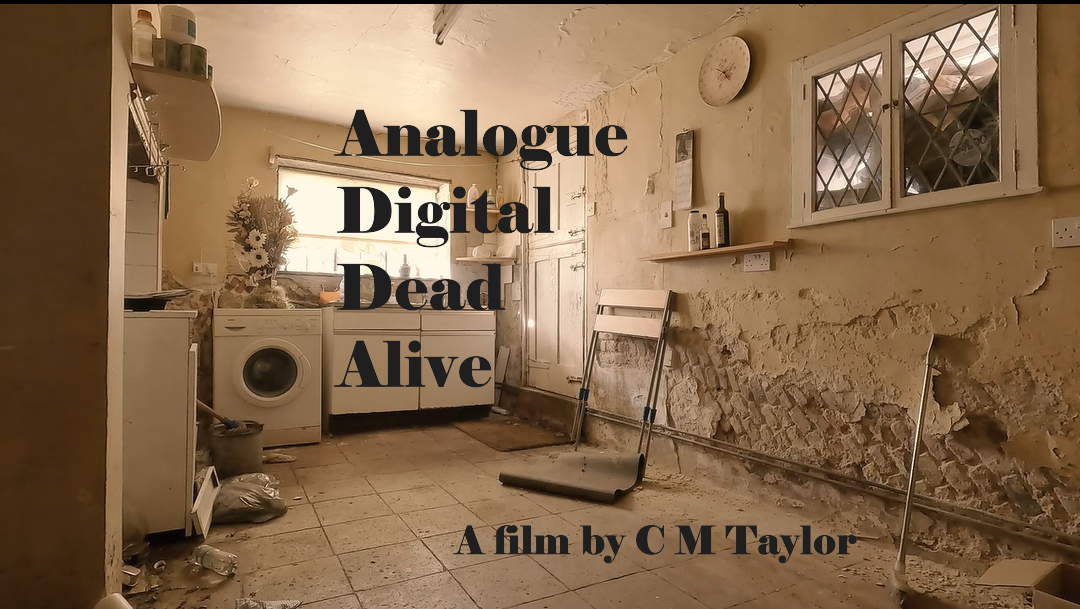
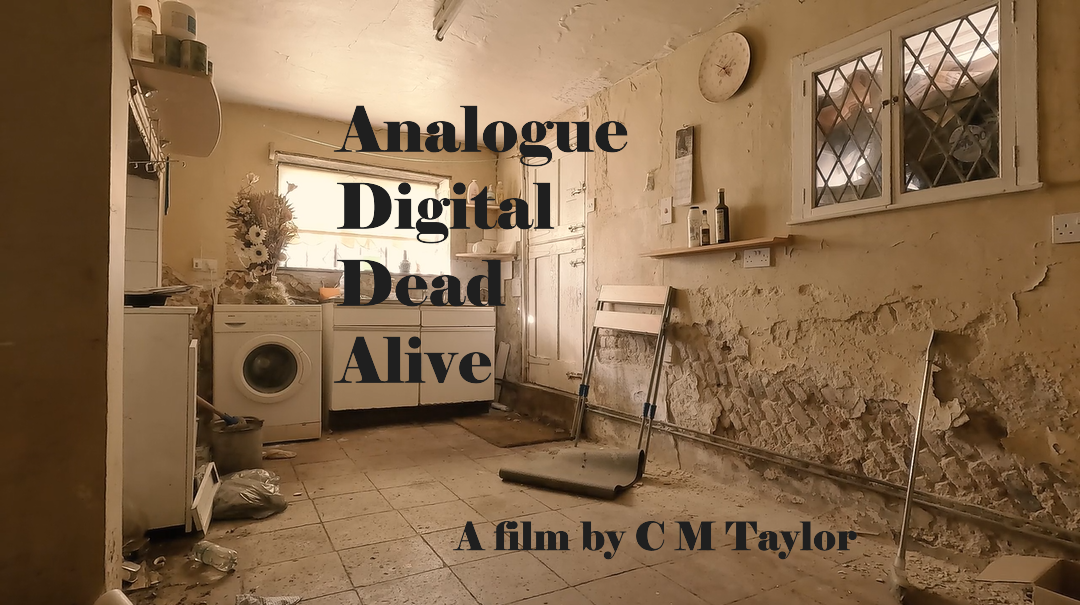
Craig round 2 – films: relayout, Nalbandia added, Morning Run retitled
Layout, per Craig's steer: films now stack chronologically newest-first, all
flush left, with much bigger posters (960px) and generous space between, so
the page reads as a filmography rather than a grid. Each film carries year
and runtime.

Content:
- Heading is 'Slow and Spurious Films' (not 'A Slow and Spurious Film'), which
  makes the old footer line redundant – removed. Series kicker and meta
  descriptions updated to match across every film page.
- Intro copy: 'Craig was moved…' (drops the third person and the mid-50s
  aside), and nine international festivals, not eight.
- The Flags of Nalbandia added (2026, 10 mins) – poster, logline and page from
  Craig's Film Texts doc. Festival-exclusive, so poster-only like Le Jazz; the
  Vimeo embed is on file for when the run ends, and Craig still owes us the
  longer description.
- The Morning Run retitled The Other Side of Boredom (2024, 13 mins), page
  renamed with it. Craig's own Vimeo title is 'The Morning Run or The Other
  Side of Boredom', so this is a retitle rather than a different film. Still a
  text card until his new poster lands.

Fixes found along the way:
- Every film detail page had dead href='#' nav links for Books/Essays/About/
  Contact. Now wired up.
- Cropped the black strip off the top of the ADDA, Library and Nalbandia
  posters and the bottom of Le Jazz (Craig spotted the first two).
- Sitemap updated for the new and renamed film pages.

diff --git a/films.html b/films.html
@@ -3,19 +3,19 @@
 <head>
 <meta charset="utf-8">
 <meta name="viewport" content="width=device-width, initial-scale=1">
-<meta name="description" content="The films of C. M. Taylor, made under the name A Slow and Spurious Film – award-winning, zero-budget experimental short films.">
+<meta name="description" content="The films of C. M. Taylor, made under the name Slow and Spurious Films – award-winning, zero-budget experimental short films.">
 <link rel="canonical" href="https://cmtaylorstory.com/films.html">
 <meta property="og:type" content="website">
 <meta property="og:site_name" content="C. M. Taylor">
 <meta property="og:locale" content="en_GB">
 <meta property="og:title" content="Films – C. M. Taylor">
-<meta property="og:description" content="The films of C. M. Taylor, made under the name A Slow and Spurious Film – award-winning, zero-budget experimental short films.">
+<meta property="og:description" content="The films of C. M. Taylor, made under the name Slow and Spurious Films – award-winning, zero-budget experimental short films.">
 <meta property="og:url" content="https://cmtaylorstory.com/films.html">
 <meta property="og:image" content="https://cmtaylorstory.com/assets/Film%20Static%20assets/The%20Library%20of%20Unwritten%20Books%20Poster.png">
 <meta name="twitter:card" content="summary_large_image">
 <meta name="twitter:site" content="@CMtaylorstory">
 <meta name="twitter:title" content="Films – C. M. Taylor">
-<meta name="twitter:description" content="The films of C. M. Taylor, made under the name A Slow and Spurious Film – award-winning, zero-budget experimental short films.">
+<meta name="twitter:description" content="The films of C. M. Taylor, made under the name Slow and Spurious Films – award-winning, zero-budget experimental short films.">
 <meta name="twitter:image" content="https://cmtaylorstory.com/assets/Film%20Static%20assets/The%20Library%20of%20Unwritten%20Books%20Poster.png">
 <link rel="icon" href="/favicon.svg" type="image/svg+xml">
 <title>Films – C. M. Taylor</title>
@@ -82,17 +82,21 @@
     font-family: "Inter", sans-serif;
     font-size: 0.72rem; letter-spacing: 0.2em; text-transform: uppercase;
     color: rgba(26,24,20,0.5); margin-top: 2.2em;
+    max-width: none; /* tracked caps need more room than the 34em body measure */
   }
 
+  /* Films stack chronologically, newest first, every one flush left – Craig's
+     steer. One big poster per film with its text underneath, and generous air
+     between them, so the page reads as a filmography rather than a grid. */
   .films {
-    display: grid;
-    grid-template-columns: repeat(auto-fit, minmax(min(440px, 100%), 1fr));
-    gap: clamp(20px, 3vw, 48px);
+    display: flex;
+    flex-direction: column;
+    gap: clamp(64px, 11vh, 132px);
     padding: 0 clamp(24px, 5vw, 72px) clamp(60px, 10vh, 120px);
   }
   .film {
     text-decoration: none; display: block;
-    position: relative;
+    width: 100%; max-width: 960px;
   }
   .film .posterwrap {
     aspect-ratio: 16 / 9;
@@ -108,15 +112,22 @@
   .film h2 {
     font-family: var(--fd);
     font-style: italic; font-weight: 500;
-    font-size: 1.5rem; margin-top: 0.7em;
+    font-size: clamp(1.6rem, 3vw, 2.3rem);
+    margin-top: 0.6em; line-height: 1.15;
+  }
+  .film .meta {
+    font-size: 0.68rem; letter-spacing: 0.2em; text-transform: uppercase;
+    color: rgba(26,24,20,0.45); margin-top: 0.9em;
   }
   .film .logline {
-    font-size: 0.85rem; color: rgba(26,24,20,0.6);
-    margin-top: 0.35em; line-height: 1.45;
+    font-family: var(--fd);
+    font-size: clamp(1rem, 1.6vw, 1.2rem);
+    color: rgba(26,24,20,0.72);
+    margin-top: 0.5em; line-height: 1.5; max-width: 30em;
   }
   .film .badge {
     font-size: 0.65rem; letter-spacing: 0.18em; text-transform: uppercase;
-    color: rgba(26,24,20,0.45); margin-top: 0.6em;
+    color: rgba(26,24,20,0.45); margin-top: 1em;
   }
   /* text-led card for the poster-less film */
   .film.textcard .posterwrap {
@@ -126,7 +137,7 @@
   }
   .film.textcard .posterwrap span {
     font-family: var(--fd);
-    font-style: italic; font-size: 1.9rem; text-align: center;
+    font-style: italic; font-size: clamp(1.5rem, 3vw, 2.4rem); text-align: center;
     padding: 0 1.2em; line-height: 1.3; color: rgba(26,24,20,0.85);
   }
 
@@ -166,19 +177,36 @@
 </div>
 
 <header class="intro">
-  <h1>A Slow and Spurious Film</h1>
-  <p>Fatigued by our hyperactive visual culture, C&nbsp;M&nbsp;Taylor was moved
-  – in his mid&#8209;50s – to start making laconic, zero-budget experimental
-  films, guided by the slogan <span class="slogan">&lsquo;the slow and the
-  spurious, not the fast and the furious&rsquo;</span>.</p>
-  <p class="laurelline">Winner – Best Experimental Film at eight international festivals</p>
+  <h1>Slow and Spurious Films</h1>
+  <p>Fatigued by our hyperactive visual culture, Craig was moved to start making
+  laconic, zero-budget experimental films, guided by the slogan
+  <span class="slogan">&lsquo;the slow and the spurious, not the fast and the
+  furious&rsquo;</span>.</p>
+  <p class="laurelline">Winner – Best Experimental Film at nine international festivals</p>
 </header>
 
 <main class="films">
 
+  <a class="film" href="films/the-flags-of-nalbandia.html">
+    <div class="posterwrap"><img decoding="async" src="assets/Film%20Static%20assets/Nalbandia%20Poster.png" alt="The Flags of Nalbandia poster"></div>
+    <h2>The Flags of Nalbandia</h2>
+    <p class="meta">2026 &nbsp;·&nbsp; 10 mins</p>
+    <p class="logline">Even imaginary countries deserve their own flags.</p>
+    <p class="badge">On the festival circuit</p>
+  </a>
+
+  <a class="film" href="films/le-jazz.html">
+    <div class="posterwrap"><img loading="lazy" decoding="async" src="assets/Film%20Static%20assets/Le%20Jazz%20Poster.png" alt="Le Jazz poster"></div>
+    <h2>Le Jazz</h2>
+    <p class="meta">2026 &nbsp;·&nbsp; 7 mins</p>
+    <p class="logline">Can you make good art from bad?</p>
+    <p class="badge">On the festival circuit</p>
+  </a>
+
   <a class="film" href="films/analogue-digital-dead-alive.html">
-    <div class="posterwrap"><img decoding="async" src="assets/Film%20Static%20assets/ADDA%20Poster.png" alt="Analogue Digital Dead Alive poster"></div>
+    <div class="posterwrap"><img loading="lazy" decoding="async" src="assets/Film%20Static%20assets/ADDA%20Poster.png" alt="Analogue Digital Dead Alive poster"></div>
     <h2>Analogue Digital Dead Alive</h2>
+    <p class="meta">2025 &nbsp;·&nbsp; 13 mins</p>
     <p class="logline">A philosophical ghost tells the living a few home truths.</p>
     <p class="badge">Watch the film</p>
   </a>
@@ -186,27 +214,20 @@
   <a class="film" href="films/the-library-of-unwritten-books.html">
     <div class="posterwrap"><img loading="lazy" decoding="async" src="assets/Film%20Static%20assets/The%20Library%20of%20Unwritten%20Books%20Poster.png" alt="The Library of Unwritten Books poster"></div>
     <h2>The Library of Unwritten Books</h2>
+    <p class="meta">2025 &nbsp;·&nbsp; 13 mins</p>
     <p class="logline">A writer discovers a library in his home, stocked with all the books he never managed to write.</p>
     <p class="badge">Watch the film</p>
   </a>
 
-  <a class="film" href="films/le-jazz.html">
-    <div class="posterwrap"><img loading="lazy" decoding="async" src="assets/Film%20Static%20assets/Le%20Jazz%20Poster.png" alt="Le Jazz poster"></div>
-    <h2>Le Jazz</h2>
-    <p class="logline">Can you make good art from bad?</p>
-    <p class="badge">On the festival circuit</p>
-  </a>
-
-  <a class="film textcard" href="films/the-morning-run.html">
+  <a class="film textcard" href="films/the-other-side-of-boredom.html">
     <div class="posterwrap"><span>There is a world of rapture on the other side of boredom</span></div>
-    <h2>The Morning Run</h2>
+    <h2>The Other Side of Boredom</h2>
+    <p class="meta">2024 &nbsp;·&nbsp; 13 mins</p>
     <p class="logline">A single-shot film documenting an unremarkable morning jog becomes a history of our species.</p>
     <p class="badge">Watch the film</p>
   </a>
 
 </main>
-
-<footer>Films run under the name A Slow and Spurious Film</footer>
 
 <script src="fold-child.js?v=20260727a"></script>
 <footer class="artfoot" style="background-image:url('assets/art/flag-3.jpg')" aria-label="Colour-field painting by C. M. Taylor"></footer>

diff --git a/films/the-flags-of-nalbandia.html b/films/the-flags-of-nalbandia.html
@@ -3,22 +3,22 @@
 <head>
 <meta charset="utf-8">
 <meta name="viewport" content="width=device-width, initial-scale=1">
-<meta name="description" content="The Morning Run – a short film by C. M. Taylor. There is a world of rapture on the other side of boredom.">
-<link rel="canonical" href="https://cmtaylorstory.com/films/the-morning-run.html">
+<meta name="description" content="The Flags of Nalbandia – a short film by C. M. Taylor (Slow and Spurious Films). Even imaginary countries deserve their own flags.">
+<link rel="canonical" href="https://cmtaylorstory.com/films/the-flags-of-nalbandia.html">
 <meta property="og:type" content="video.other">
 <meta property="og:site_name" content="C. M. Taylor">
 <meta property="og:locale" content="en_GB">
-<meta property="og:title" content="The Morning Run – C. M. Taylor">
-<meta property="og:description" content="The Morning Run – a short film by C. M. Taylor. There is a world of rapture on the other side of boredom.">
-<meta property="og:url" content="https://cmtaylorstory.com/films/the-morning-run.html">
-<meta property="og:image" content="https://cmtaylorstory.com/assets/art/flag-2.jpg">
+<meta property="og:title" content="The Flags of Nalbandia – C. M. Taylor">
+<meta property="og:description" content="The Flags of Nalbandia – a short film by C. M. Taylor (Slow and Spurious Films). Even imaginary countries deserve their own flags.">
+<meta property="og:url" content="https://cmtaylorstory.com/films/the-flags-of-nalbandia.html">
+<meta property="og:image" content="https://cmtaylorstory.com/assets/Film%20Static%20assets/Nalbandia%20Poster.png">
 <meta name="twitter:card" content="summary_large_image">
 <meta name="twitter:site" content="@CMtaylorstory">
-<meta name="twitter:title" content="The Morning Run – C. M. Taylor">
-<meta name="twitter:description" content="The Morning Run – a short film by C. M. Taylor. There is a world of rapture on the other side of boredom.">
-<meta name="twitter:image" content="https://cmtaylorstory.com/assets/art/flag-2.jpg">
+<meta name="twitter:title" content="The Flags of Nalbandia – C. M. Taylor">
+<meta name="twitter:description" content="The Flags of Nalbandia – a short film by C. M. Taylor (Slow and Spurious Films). Even imaginary countries deserve their own flags.">
+<meta name="twitter:image" content="https://cmtaylorstory.com/assets/Film%20Static%20assets/Nalbandia%20Poster.png">
 <link rel="icon" href="/favicon.svg" type="image/svg+xml">
-<title>The Morning Run – C. M. Taylor</title>
+<title>The Flags of Nalbandia – C. M. Taylor</title>
 <link rel="preconnect" href="https://fonts.googleapis.com">
 <link rel="preconnect" href="https://fonts.gstatic.com" crossorigin>
 <link href="https://fonts.googleapis.com/css2?family=EB+Garamond:ital,wght@0,400;0,500;0,600;1,400;1,500&family=Inter:wght@400;500&display=swap" rel="stylesheet">
@@ -43,6 +43,8 @@
   h1 { font-family:"EB Garamond",Georgia,serif; text-transform:uppercase;
     font-weight:500; font-size:clamp(1.6rem,4vw,3.1rem); letter-spacing:.09em;
     line-height:1.2; margin-bottom:.5em; }
+  .filmmeta { font-size:.68rem; letter-spacing:.2em; text-transform:uppercase;
+    color:rgba(246,244,239,.45); margin-bottom:1.4em; }
   .logline { font-family:"EB Garamond",Georgia,serif;
     font-size:clamp(1.15rem,2.2vw,1.6rem); color:rgba(246,244,239,.85);
     margin-bottom:1.1em; max-width:30em; }
@@ -68,29 +70,29 @@
   .artfoot { position: relative; width: 100%; height: clamp(120px, 20vh, 240px);
     background-size: cover; background-position: center; display: block; }
 </style>
-<script type="application/ld+json">{"@context": "https://schema.org", "@type": "Movie", "name": "The Morning Run", "director": {"@type": "Person", "name": "C. M. Taylor"}, "url": "https://cmtaylorstory.com/films/the-morning-run.html", "image": "https://cmtaylorstory.com/assets/art/flag-2.jpg", "description": "The Morning Run – a short film by C. M. Taylor. There is a world of rapture on the other side of boredom.", "inLanguage": "en"}</script>
+<script type="application/ld+json">{"@context": "https://schema.org", "@type": "Movie", "name": "The Flags of Nalbandia", "director": {"@type": "Person", "name": "C. M. Taylor"}, "url": "https://cmtaylorstory.com/films/the-flags-of-nalbandia.html", "image": "https://cmtaylorstory.com/assets/Film%20Static%20assets/Nalbandia%20Poster.png", "description": "The Flags of Nalbandia – a short film by C. M. Taylor (Slow and Spurious Films). Even imaginary countries deserve their own flags.", "inLanguage": "en"}</script>
 </head>
 <body>
 <div class="top">
   <a class="name" href="../index.html">C. M. Taylor</a>
   <nav>
-    <a href="#">Books</a>
+    <a href="../books.html">Books</a>
     <a class="here" href="../films.html">Films</a>
-    <a href="#">Essays</a>
-    <a href="#">About</a>
-    <a href="#">Contact</a>
+    <a href="../essays.html">Essays</a>
+    <a href="../about.html">About</a>
+    <a href="../contact.html">Contact</a>
   </nav>
 </div>
 <main>
-  <p class="series">A Slow and Spurious Film</p>
-  <h1>The Morning Run</h1>
-  <p class="logline">There is a world of rapture on the other side of boredom.</p>
-  <p class="desc">A single-shot film documenting an unremarkable morning jog becomes a history of our species and a touching personal skirmish with the truth of ageing. A single-shot, zero-budget experimental documentary by a 53-year-old first-time film maker. Go figure.</p>
-  <div class="player"><iframe src="https://player.vimeo.com/video/1041766908?h=b4e71ea7d4&title=0&byline=0&portrait=0&badge=0&autopause=0" allow="autoplay; fullscreen; picture-in-picture" allowfullscreen title="The Morning Run or The Other Side of Boredom"></iframe></div>
+  <p class="series">Slow and Spurious Films</p>
+  <h1>The Flags of Nalbandia</h1>
+  <p class="filmmeta">2026 &nbsp;·&nbsp; 10 mins</p>
+  <p class="logline">Even imaginary countries deserve their own flags.</p>
+  <div class="posterhero"><img decoding="async" src="../assets/Film%20Static%20assets/Nalbandia%20Poster.png" alt="The Flags of Nalbandia poster"></div><p class="note">Currently screening at festivals – the full film will appear here when the run ends</p>
   
   <a class="back" href="../films.html">&larr; All films</a>
 </main>
 <script src="../fold-child.js?v=20260725a"></script>
-<footer class="artfoot" style="background-image:url('../assets/art/flag-2.jpg')" aria-label="Colour-field painting by C. M. Taylor"></footer>
+<footer class="artfoot" style="background-image:url('../assets/art/flag-3.jpg')" aria-label="Colour-field painting by C. M. Taylor"></footer>
 </body>
 </html>

diff --git a/films/the-other-side-of-boredom.html b/films/the-other-side-of-boredom.html
@@ -3,22 +3,22 @@
 <head>
 <meta charset="utf-8">
 <meta name="viewport" content="width=device-width, initial-scale=1">
-<meta name="description" content="Le Jazz – a short film by C. M. Taylor (Slow and Spurious Films). Can you make good art from bad?">
-<link rel="canonical" href="https://cmtaylorstory.com/films/le-jazz.html">
+<meta name="description" content="The Other Side of Boredom – a short film by C. M. Taylor. There is a world of rapture on the other side of boredom.">
+<link rel="canonical" href="https://cmtaylorstory.com/films/the-other-side-of-boredom.html">
 <meta property="og:type" content="video.other">
 <meta property="og:site_name" content="C. M. Taylor">
 <meta property="og:locale" content="en_GB">
-<meta property="og:title" content="Le Jazz – C. M. Taylor">
-<meta property="og:description" content="Le Jazz – a short film by C. M. Taylor (Slow and Spurious Films). Can you make good art from bad?">
-<meta property="og:url" content="https://cmtaylorstory.com/films/le-jazz.html">
-<meta property="og:image" content="https://cmtaylorstory.com/assets/Film%20Static%20assets/Le%20Jazz%20Poster.png">
+<meta property="og:title" content="The Other Side of Boredom – C. M. Taylor">
+<meta property="og:description" content="The Other Side of Boredom – a short film by C. M. Taylor. There is a world of rapture on the other side of boredom.">
+<meta property="og:url" content="https://cmtaylorstory.com/films/the-other-side-of-boredom.html">
+<meta property="og:image" content="https://cmtaylorstory.com/assets/art/flag-2.jpg">
 <meta name="twitter:card" content="summary_large_image">
 <meta name="twitter:site" content="@CMtaylorstory">
-<meta name="twitter:title" content="Le Jazz – C. M. Taylor">
-<meta name="twitter:description" content="Le Jazz – a short film by C. M. Taylor (Slow and Spurious Films). Can you make good art from bad?">
-<meta name="twitter:image" content="https://cmtaylorstory.com/assets/Film%20Static%20assets/Le%20Jazz%20Poster.png">
+<meta name="twitter:title" content="The Other Side of Boredom – C. M. Taylor">
+<meta name="twitter:description" content="The Other Side of Boredom – a short film by C. M. Taylor. There is a world of rapture on the other side of boredom.">
+<meta name="twitter:image" content="https://cmtaylorstory.com/assets/art/flag-2.jpg">
 <link rel="icon" href="/favicon.svg" type="image/svg+xml">
-<title>Le Jazz – C. M. Taylor</title>
+<title>The Other Side of Boredom – C. M. Taylor</title>
 <link rel="preconnect" href="https://fonts.googleapis.com">
 <link rel="preconnect" href="https://fonts.gstatic.com" crossorigin>
 <link href="https://fonts.googleapis.com/css2?family=EB+Garamond:ital,wght@0,400;0,500;0,600;1,400;1,500&family=Inter:wght@400;500&display=swap" rel="stylesheet">
@@ -70,7 +70,7 @@
   .artfoot { position: relative; width: 100%; height: clamp(120px, 20vh, 240px);
     background-size: cover; background-position: center; display: block; }
 </style>
-<script type="application/ld+json">{"@context": "https://schema.org", "@type": "Movie", "name": "Le Jazz", "director": {"@type": "Person", "name": "C. M. Taylor"}, "url": "https://cmtaylorstory.com/films/le-jazz.html", "image": "https://cmtaylorstory.com/assets/Film%20Static%20assets/Le%20Jazz%20Poster.png", "description": "Le Jazz – a short film by C. M. Taylor (Slow and Spurious Films). Can you make good art from bad?", "inLanguage": "en"}</script>
+<script type="application/ld+json">{"@context": "https://schema.org", "@type": "Movie", "name": "The Other Side of Boredom", "director": {"@type": "Person", "name": "C. M. Taylor"}, "url": "https://cmtaylorstory.com/films/the-other-side-of-boredom.html", "image": "https://cmtaylorstory.com/assets/art/flag-2.jpg", "description": "The Other Side of Boredom – a short film by C. M. Taylor. There is a world of rapture on the other side of boredom.", "inLanguage": "en"}</script>
 </head>
 <body>
 <div class="top">
@@ -85,15 +85,15 @@
 </div>
 <main>
   <p class="series">Slow and Spurious Films</p>
-  <h1>Le Jazz</h1>
-  <p class="filmmeta">2026 &nbsp;·&nbsp; 7 mins</p>
-  <p class="logline">Can you make good art from bad?</p>
-  <p class="desc">A zero-budget film named after a painting bought for €50 off the wall of a restaurant on the Costa Blanca in Spain twenty years ago. A new work of art is created from the painting during the film.</p>
-  <div class="posterhero"><img decoding="async" src="../assets/Film%20Static%20assets/Le%20Jazz%20Poster.png" alt="Le Jazz poster"></div><p class="note">Currently screening at festivals – the full film will appear here when the run ends</p>
+  <h1>The Other Side of Boredom</h1>
+  <p class="filmmeta">2024 &nbsp;·&nbsp; 13 mins</p>
+  <p class="logline">There is a world of rapture on the other side of boredom.</p>
+  <p class="desc">A single-shot film documenting an unremarkable morning jog becomes a history of our species and a touching personal skirmish with the truth of ageing. A single-shot, zero-budget experimental documentary by a 53-year-old first-time film maker. Go figure.</p>
+  <div class="player"><iframe src="https://player.vimeo.com/video/1041766908?h=b4e71ea7d4&title=0&byline=0&portrait=0&badge=0&autopause=0" allow="autoplay; fullscreen; picture-in-picture" allowfullscreen title="The Morning Run or The Other Side of Boredom"></iframe></div>
   
   <a class="back" href="../films.html">&larr; All films</a>
 </main>
 <script src="../fold-child.js?v=20260725a"></script>
-<footer class="artfoot" style="background-image:url('../assets/art/flag-4.jpg')" aria-label="Colour-field painting by C. M. Taylor"></footer>
+<footer class="artfoot" style="background-image:url('../assets/art/flag-2.jpg')" aria-label="Colour-field painting by C. M. Taylor"></footer>
 </body>
 </html>

diff --git a/films/the-library-of-unwritten-books.html b/films/the-library-of-unwritten-books.html
@@ -43,6 +43,8 @@
   h1 { font-family:"EB Garamond",Georgia,serif; text-transform:uppercase;
     font-weight:500; font-size:clamp(1.6rem,4vw,3.1rem); letter-spacing:.09em;
     line-height:1.2; margin-bottom:.5em; }
+  .filmmeta { font-size:.68rem; letter-spacing:.2em; text-transform:uppercase;
+    color:rgba(246,244,239,.45); margin-bottom:1.4em; }
   .logline { font-family:"EB Garamond",Georgia,serif;
     font-size:clamp(1.15rem,2.2vw,1.6rem); color:rgba(246,244,239,.85);
     margin-bottom:1.1em; max-width:30em; }
@@ -74,16 +76,17 @@
 <div class="top">
   <a class="name" href="../index.html">C. M. Taylor</a>
   <nav>
-    <a href="#">Books</a>
+    <a href="../books.html">Books</a>
     <a class="here" href="../films.html">Films</a>
-    <a href="#">Essays</a>
-    <a href="#">About</a>
-    <a href="#">Contact</a>
+    <a href="../essays.html">Essays</a>
+    <a href="../about.html">About</a>
+    <a href="../contact.html">Contact</a>
   </nav>
 </div>
 <main>
-  <p class="series">A Slow and Spurious Film</p>
+  <p class="series">Slow and Spurious Films</p>
   <h1>The Library of Unwritten Books</h1>
+  <p class="filmmeta">2025 &nbsp;·&nbsp; 13 mins</p>
   <p class="logline">A writer discovers a library in his home, stocked with all the books he never managed to write.</p>
   <p class="desc">A work of spiritual allegory inspired by Jung, Blake and Borges. Zero budget, comprising four long, handheld shots.</p>
   <div class="player"><iframe src="https://player.vimeo.com/video/1078750396?title=0&byline=0&portrait=0&badge=0&autopause=0" allow="autoplay; fullscreen; picture-in-picture" allowfullscreen title="The Library of Unwritten Books"></iframe></div>

diff --git a/films/analogue-digital-dead-alive.html b/films/analogue-digital-dead-alive.html
@@ -43,6 +43,8 @@
   h1 { font-family:"EB Garamond",Georgia,serif; text-transform:uppercase;
     font-weight:500; font-size:clamp(1.6rem,4vw,3.1rem); letter-spacing:.09em;
     line-height:1.2; margin-bottom:.5em; }
+  .filmmeta { font-size:.68rem; letter-spacing:.2em; text-transform:uppercase;
+    color:rgba(246,244,239,.45); margin-bottom:1.4em; }
   .logline { font-family:"EB Garamond",Georgia,serif;
     font-size:clamp(1.15rem,2.2vw,1.6rem); color:rgba(246,244,239,.85);
     margin-bottom:1.1em; max-width:30em; }
@@ -74,16 +76,17 @@
 <div class="top">
   <a class="name" href="../index.html">C. M. Taylor</a>
   <nav>
-    <a href="#">Books</a>
+    <a href="../books.html">Books</a>
     <a class="here" href="../films.html">Films</a>
-    <a href="#">Essays</a>
-    <a href="#">About</a>
-    <a href="#">Contact</a>
+    <a href="../essays.html">Essays</a>
+    <a href="../about.html">About</a>
+    <a href="../contact.html">Contact</a>
   </nav>
 </div>
 <main>
-  <p class="series">A Slow and Spurious Film</p>
+  <p class="series">Slow and Spurious Films</p>
   <h1>Analogue Digital Dead Alive</h1>
+  <p class="filmmeta">2025 &nbsp;·&nbsp; 13 mins</p>
   <p class="logline">A philosophical ghost tells the living a few home truths.</p>
   <p class="desc">A zero-budget experimental work of dark, supernatural comedy.</p>
   <div class="player"><iframe src="https://player.vimeo.com/video/1104220832?title=0&byline=0&portrait=0&badge=0&autopause=0" allow="autoplay; fullscreen; picture-in-picture" allowfullscreen title="Analogue Digital Dead Alive"></iframe></div>
